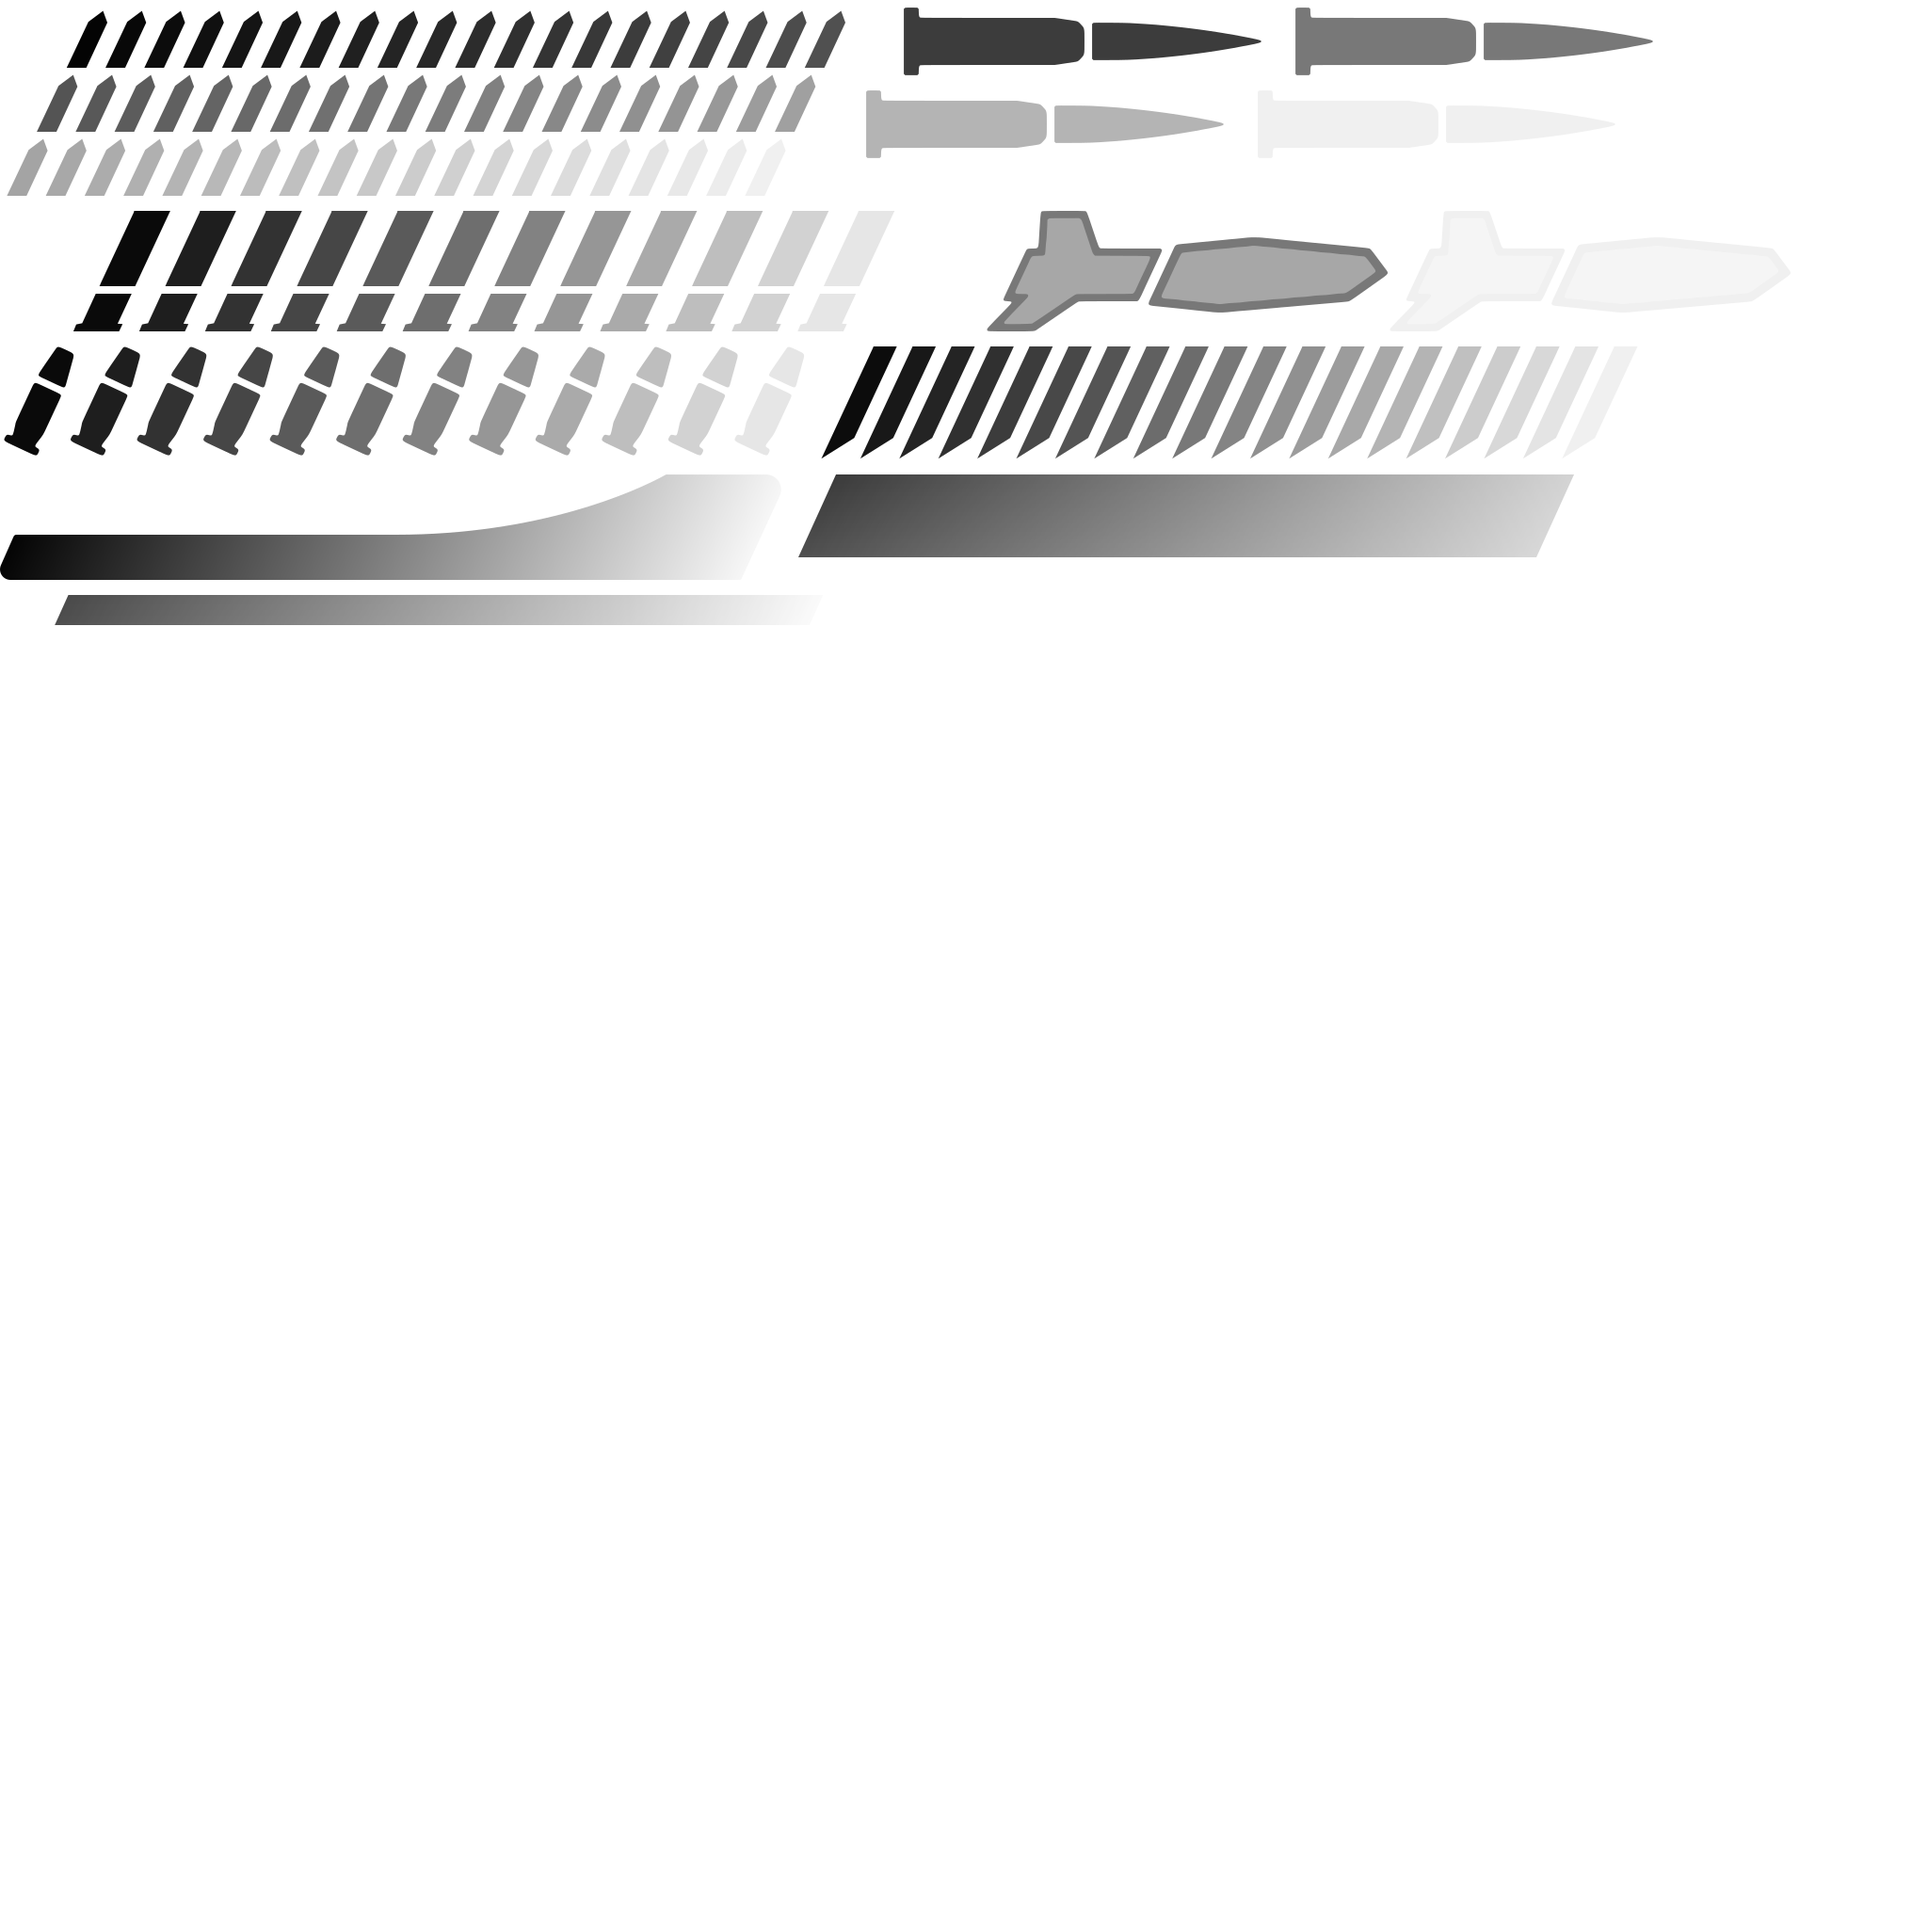
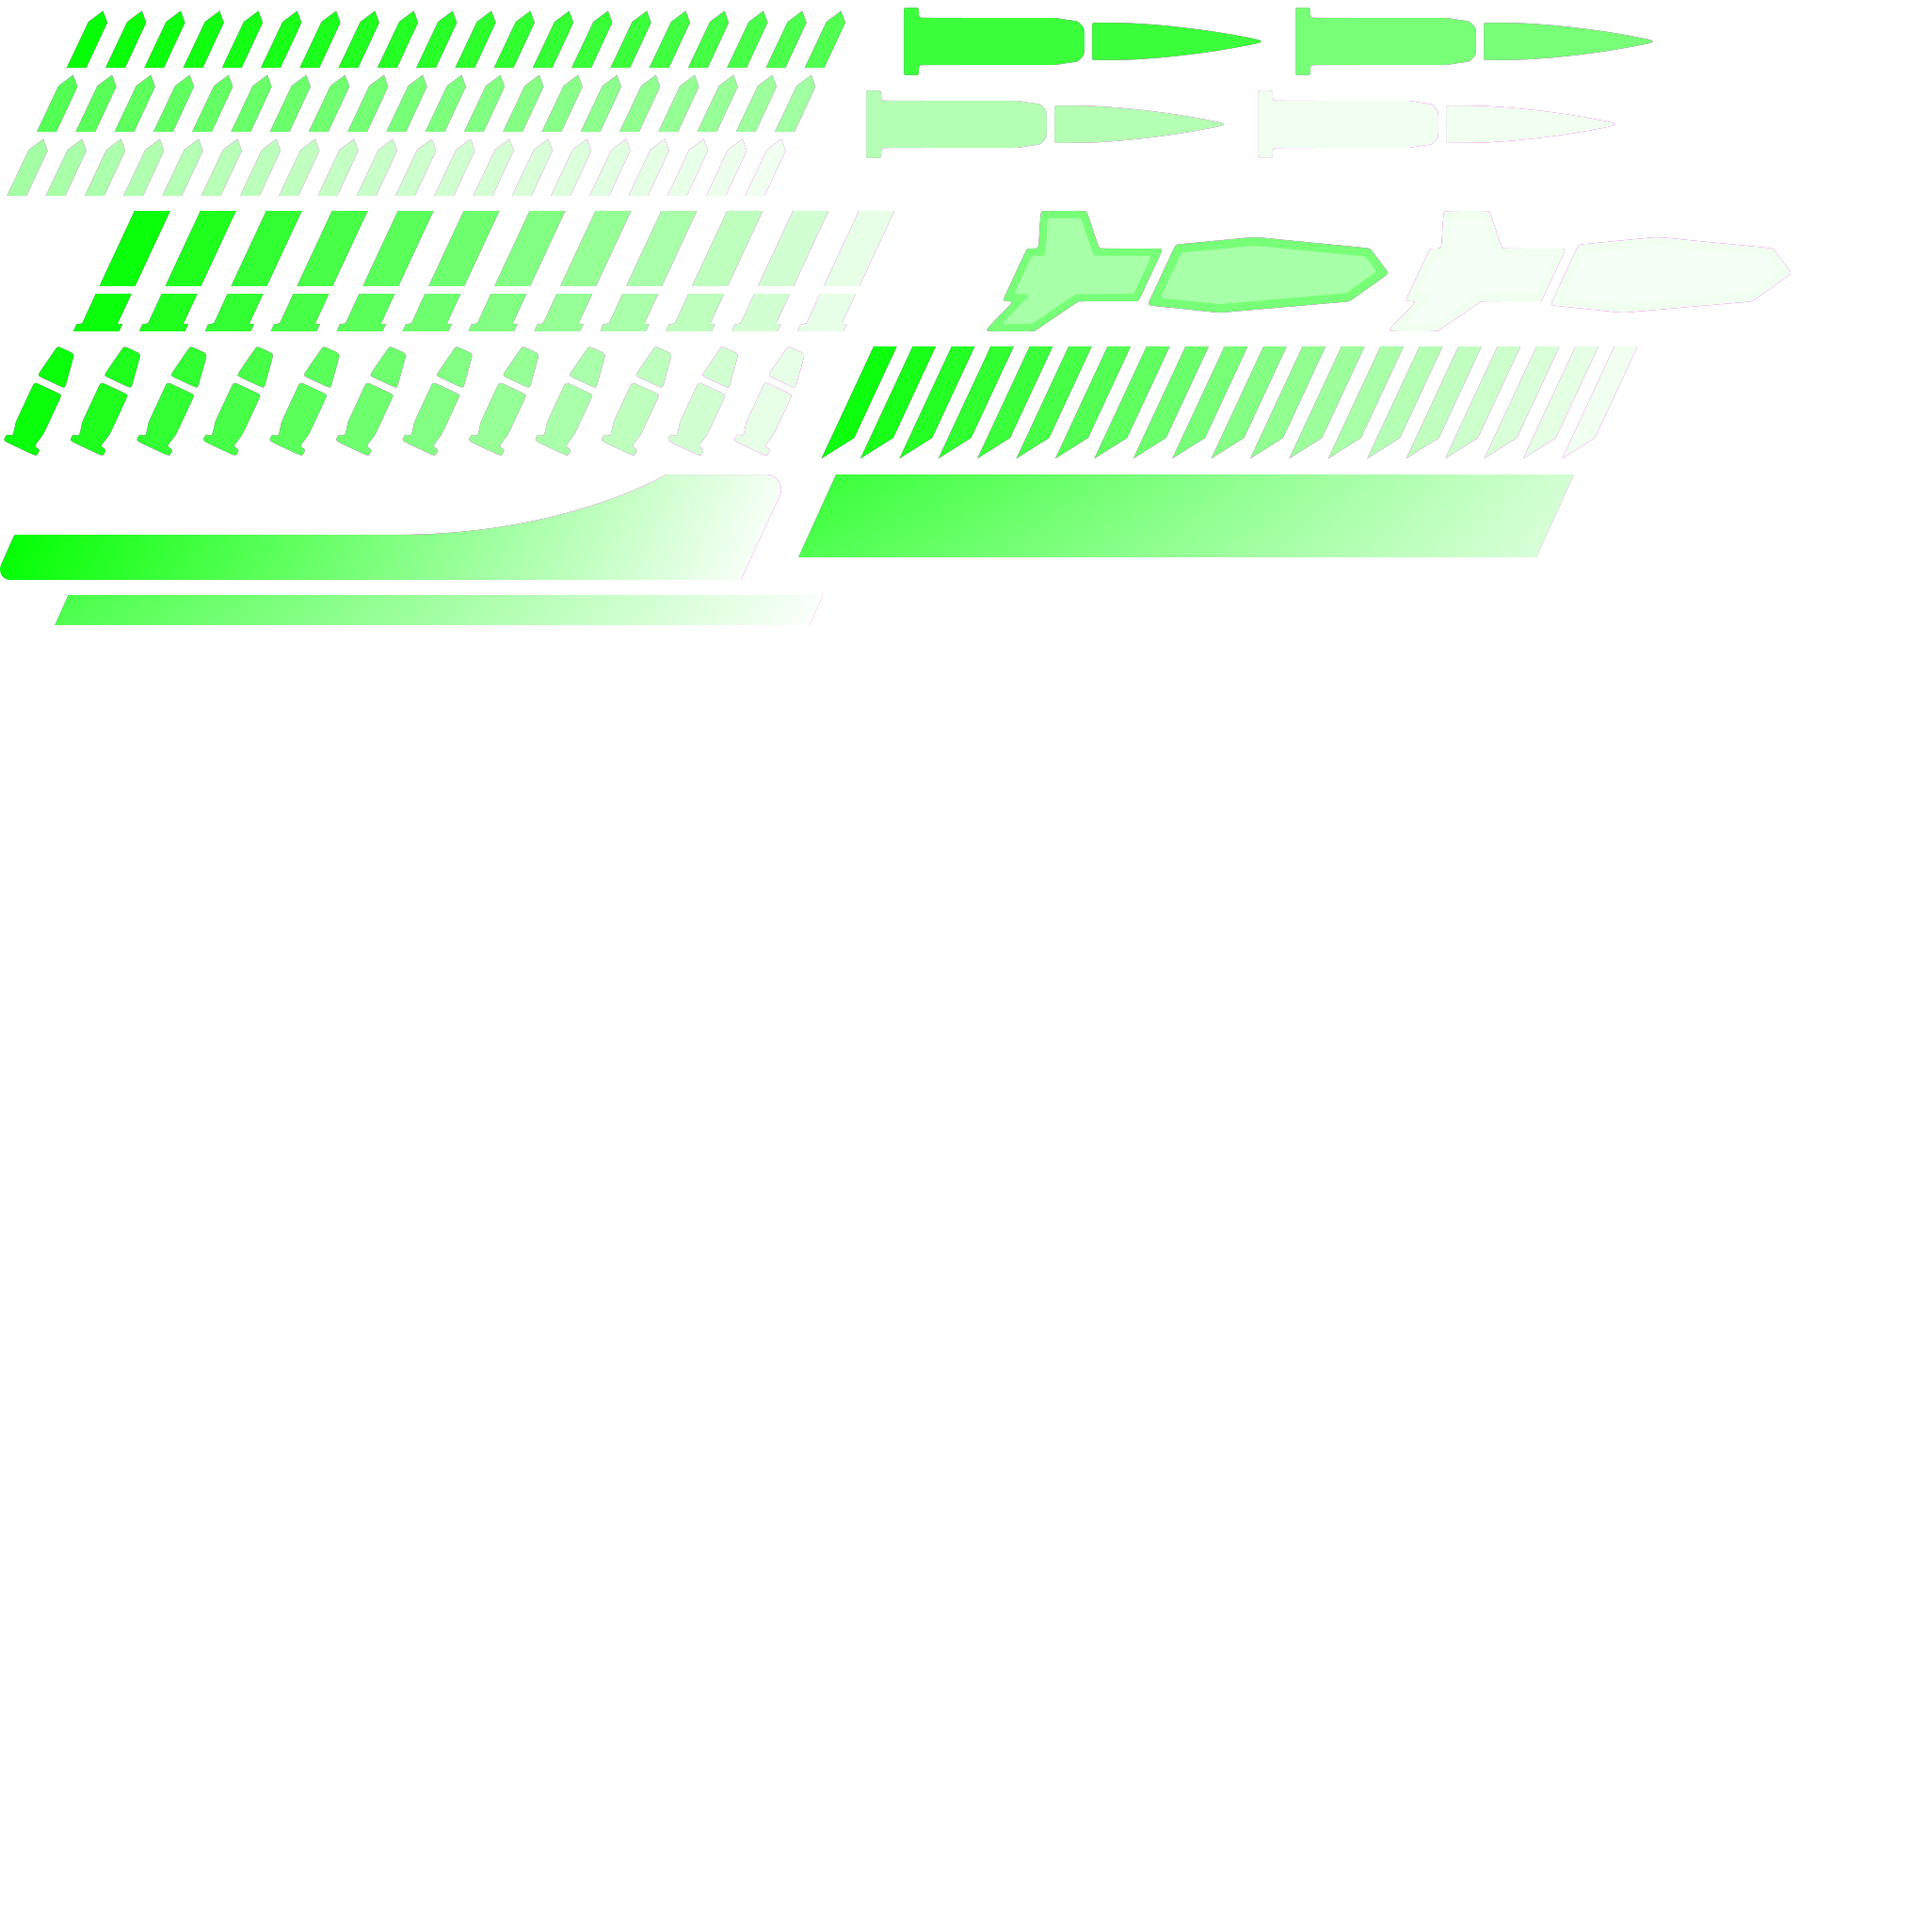
Add high-res sniper ladder and fix meter fringes

Changed region(s): [[0.0, 0.0, 0.8438, 0.3438]]

diff --git a/tools/hud_assets.py b/tools/hud_assets.py
@@ -1,6 +1,7 @@
 #!/usr/bin/env python3
 """Makes the high-res HUD textures (port/assets/hud/*.png) from the hand-drawn
-SVG redraws of the Halo PC HUD sheets, laid out as the Xbox maps' sheets:
+SVG redraws of the Halo PC HUD sheets (and of the sniper rifle's scope
+ladder, which its weapon's folder holds), laid out as the Xbox maps' sheets:
 
     python tools/hud_assets.py layout --map assets/maps/bloodgulch.map \\
         --hek ../halo-pc-restored/halopc-restored --svg ../halo-pc-restored/ui-svg-handmade
@@ -59,6 +60,9 @@ FORMATS = {0: "a8", 1: "y8", 2: "ay8", 3: "a8y8", 6: "r5g6b5", 8: "a1r5g5b5", 9:
            10: "x8r8g8b8", 11: "a8r8g8b8", 14: "dxt1", 15: "dxt3", 16: "dxt5"}
 
 HUD = "ui\\hud\\bitmaps\\"
+# the folders of the HUD's bitmaps: the HUD's own, and the sniper rifle's
+# (its scope's elevation ladder)
+FOLDERS = (HUD, "weapons\\sniper rifle\\bitmaps\\")
 # the meter sheets: their redraws in the Xbox channel order (the fill
 # threshold the meter shader reads in the grey, the art in the alpha)
 METERS = {
@@ -95,8 +99,10 @@ UNUSED = {
 # how each redraw's texels are written, by its PC bitmap's format (as the
 # Xbox decodes that format: xbox_textures.c, convert_texel): AY8 is its one
 # value in every channel (the HUD blends premultiplied), A8Y8 grey and alpha,
-# A8 white with alpha, Y8 grey and opaque, colour formats as drawn
-KINDS = {0: "a8", 1: "y8", 2: "alpha", 3: "grey", 6: "colour", 8: "colour", 9: "colour", 10: "colour", 11: "colour"}
+# A8 white with alpha, Y8 grey and opaque, colour formats as drawn; DXT ones
+# as drawn with the colour carried into the transparent texels, as theirs is
+KINDS = {0: "a8", 1: "y8", 2: "alpha", 3: "grey", 6: "colour", 8: "colour", 9: "colour", 10: "colour", 11: "colour",
+         14: "dxt", 15: "dxt", 16: "dxt"}
 
 # how far (in Xbox texels) a redrawn cell may sit from its Xbox one, and how
 # much it must overlap it (the overlap of their shapes over their union: thin
@@ -355,8 +361,10 @@ def redraws(svg_root: Path, hek_root: Path, tag: str) -> list:
     if tag in METERS:
         svg, hek = METERS[tag]
         return [(svg, 0, hek_bitmap_group(hek_root / hek))]
-    relative = Path("hud") / Path(*tag.split("\\")[2:])
-    hek = hek_root / "tags" / Path(*tag.split("\\")).with_suffix(".bitmap")
+    # (the redraws mirror the tags: those under ui from tags/ui, others from tags)
+    parts = tag.split("\\")
+    relative = Path(*parts[1:]) if parts[0] == "ui" else Path(*parts)
+    hek = hek_root / "tags" / Path(*parts).with_suffix(".bitmap")
     if not hek.exists():
         return []
     group = hek_bitmap_group(hek)
@@ -376,7 +384,7 @@ def layout(arguments) -> None:
     entries = []
     sources = {}
     for group_tag, tag in sorted(xbox_map.tags):
-        if group_tag != "bitm" or not tag.startswith(HUD):
+        if group_tag != "bitm" or not tag.startswith(FOLDERS):
             continue
         candidates = redraws(svg_root, hek_root, tag)
         if not candidates:
@@ -384,8 +392,11 @@ def layout(arguments) -> None:
         group = xbox_map.bitmap_group(tag)
         for index, bitmap in enumerate(group["bitmaps"]):
             width, height = bitmap["width"], bitmap["height"]
-            # (the combined sheets by their own names, as before the others)
-            name = tag[len(HUD):].replace("combined\\", "").replace("\\", "__").replace(" ", "_") + f"__{index}"
+            # (the combined sheets by their own names, as before the others;
+            # the weapon's by its name and theirs)
+            stem = tag[len(HUD):].replace("combined\\", "") if tag.startswith(HUD) else \
+                tag.split("\\", 1)[1].replace("\\bitmaps\\", "\\")
+            name = stem.replace("\\", "__").replace(" ", "_") + f"__{index}"
             xbox = decode_bitmap(bitmap)
             # (each cell with the sprites, as sequence and sprite numbers, it is)
             cells = {}
@@ -480,9 +491,9 @@ def layout(arguments) -> None:
 
 
 def bleed(image: np.ndarray) -> np.ndarray:
-    """Gives each transparent texel the grey of the nearest covered one, so
+    """Gives each transparent texel the colour of the nearest covered one: so
     that filtering and mip levels at a meter's edges read its own fill
-    thresholds."""
+    thresholds, and a DXT texture keeps its colour where it is transparent."""
     from scipy import ndimage
 
     covered = image[:, :, 3] > 0
@@ -494,6 +505,24 @@ def bleed(image: np.ndarray) -> np.ndarray:
         result[:, :, channel] = image[rows, columns, channel]
     result[:, :, 3] = image[:, :, 3]
     return result
+
+
+def coverage(alpha: np.ndarray) -> np.ndarray:
+    """How much of each texel a meter's shapes cover: all of it inside them
+    (their dim cells too: their alpha is faint by design), and on their
+    outline (covered texels next to uncovered ones) the share their alpha has
+    of their brightest neighbour's. The meter shader reads only blue and
+    alpha; the game eases the meter's darkening of what is behind it by this
+    (port/linux/src/nv2a_psh.c, coverage_alpha), which on the Xbox stopped at
+    its point-sampled texels' edges, and filtered would leave a dark fringe."""
+    from scipy import ndimage
+
+    covered = alpha > 0
+    outline = covered & ndimage.binary_dilation(~covered, structure=np.ones((3, 3), bool))
+    brightest = ndimage.maximum_filter(alpha, size=3).astype(float)
+    result = np.where(covered, 255.0, 0.0)
+    result[outline] = np.clip(alpha[outline] * 255.0 / np.maximum(brightest[outline], 1.0), 0, 255)
+    return np.round(result).astype(np.uint8)
 
 
 def recipe(texels: np.ndarray, kind: str) -> np.ndarray:
@@ -527,8 +556,10 @@ def build_asset(entry: dict, renders: dict) -> np.ndarray:
         texels = window(clipped(renders[key], [value * zoom for value in cell["clip"]]),
                         cell["source"][0] * zoom, cell["source"][1] * zoom, width, height)
         image[top * scale:top * scale + height, left * scale:left * scale + width] = recipe(texels, cell["kind"])
-    if any(cell["kind"] == "meter" for cell in entry["cells"]):
+    if any(cell["kind"] in ("meter", "dxt") for cell in entry["cells"]):
         image = bleed(image)
+    if any(cell["kind"] == "meter" for cell in entry["cells"]):
+        image[..., 1] = coverage(image[..., 3])
     return image
 
 

diff --git a/port/linux/src/d3d8_gl.c b/port/linux/src/d3d8_gl.c
@@ -2310,6 +2310,8 @@ static void bind_textures(struct nv2a_pixel_shader_key *key, float texture_scale
 			state_texture(stage, gl_target, gl_texture);
 			state_sampler(stage, device.samplers[stage]);
 			configure_sampler(stage, description.levels > 1, description.hires);
+			if (stage == 0)
+				key->coverage_alpha = description.hires_coverage != FALSE;
 			key->sampler_type[stage] = gl_target == GL_TEXTURE_CUBE_MAP ? _xgpu_sampler_cube :
 				gl_target == GL_TEXTURE_3D ? _xgpu_sampler_3d : _xgpu_sampler_2d;
 		}
@@ -2612,6 +2614,10 @@ static struct program_entry *prepare_draw(BOOL immediate)
 		key.alpha_kill[stage] = D3D__TextureState[stage][D3DTSS_ALPHAKILL] == D3DTALPHAKILL_ENABLE;
 		key.color_sign[stage] = (unsigned char)((D3D__TextureState[stage][D3DTSS_COLORSIGN] >> 28) & 0xf);
 	}
+	/* (only with the meter's blend: hud_hires.h, nv2a_pixel_shader_key) */
+	key.coverage_alpha = key.coverage_alpha && D3D__RenderState[D3DRS_ALPHABLENDENABLE] &&
+		D3D__RenderState[D3DRS_SRCBLEND] == D3DBLEND_CONSTANTCOLOR &&
+		D3D__RenderState[D3DRS_DESTBLEND] == D3DBLEND_SRCALPHA;
 	key.alpha_test_function = D3D__RenderState[D3DRS_ALPHATESTENABLE] ? D3D__RenderState[D3DRS_ALPHAFUNC] : 0;
 	key.fog_enable = D3D__RenderState[D3DRS_FOGENABLE] != 0;
 	key.fog_table_mode = (unsigned char)D3D__RenderState[D3DRS_FOGTABLEMODE];

diff --git a/port/linux/src/xgpu.h b/port/linux/src/xgpu.h
@@ -100,7 +100,12 @@ struct nv2a_pixel_shader_key
 	unsigned char fog_table_mode;
 	/* inside a visibility test: count the samples that pass (Android) */
 	unsigned char count_samples;
-	unsigned char pad;
+	/* a high-res HUD meter (hud_hires.h) drawn with the meter's blend (the
+	destination kept by the source's alpha): that alpha is eased to 1 by the
+	coverage texture 0's green holds, so that the meter darkens what is
+	behind it only where it covers it (the Xbox's point-sampled meters stop
+	at their texels' edges; filtered ones have a fringe of faint texels) */
+	unsigned char coverage_alpha;
 };
 
 char *nv2a_pixel_shader_to_glsl(const struct nv2a_pixel_shader_key *key);
@@ -138,6 +143,7 @@ struct xgpu_texture_description
 	BOOL compressed;
 	unsigned long pitch; /* linear textures */
 	BOOL hires;         /* a high-res HUD texture drawn in the texture's place (hud_hires.h) */
+	BOOL hires_coverage; /* ... whose green is its coverage (a meter's) */
 };
 
 void xgpu_texture_describe(DWORD format_word, DWORD size_word, struct xgpu_texture_description *description);

diff --git a/port/linux/src/nv2a_psh.c b/port/linux/src/nv2a_psh.c
@@ -638,6 +638,8 @@ char *nv2a_pixel_shader_to_glsl(const struct nv2a_pixel_shader_key *key)
 		xgpu_text_append(&text, ";\n\tvec4 result = vec4(fA * fB + (1.0 - fA) * fC + fD, fG);\n");
 	}
 
+	if (key->coverage_alpha)
+		xgpu_text_append(&text, "\tresult.a = mix(1.0, result.a, t0.g);\n");
 	if (key->alpha_test_function)
 	{
 		const char *comparison = comparison_operator(key->alpha_test_function);
